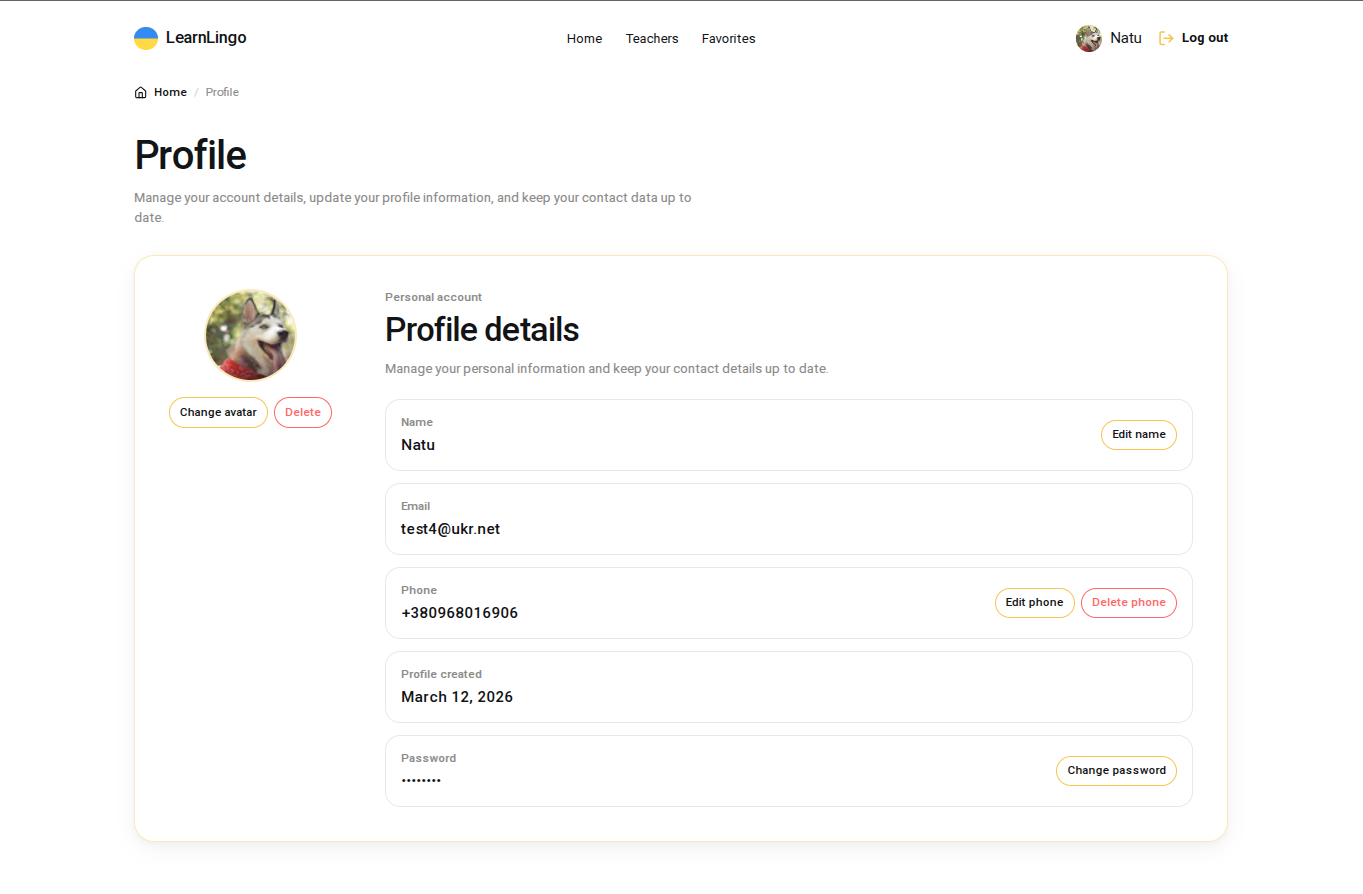
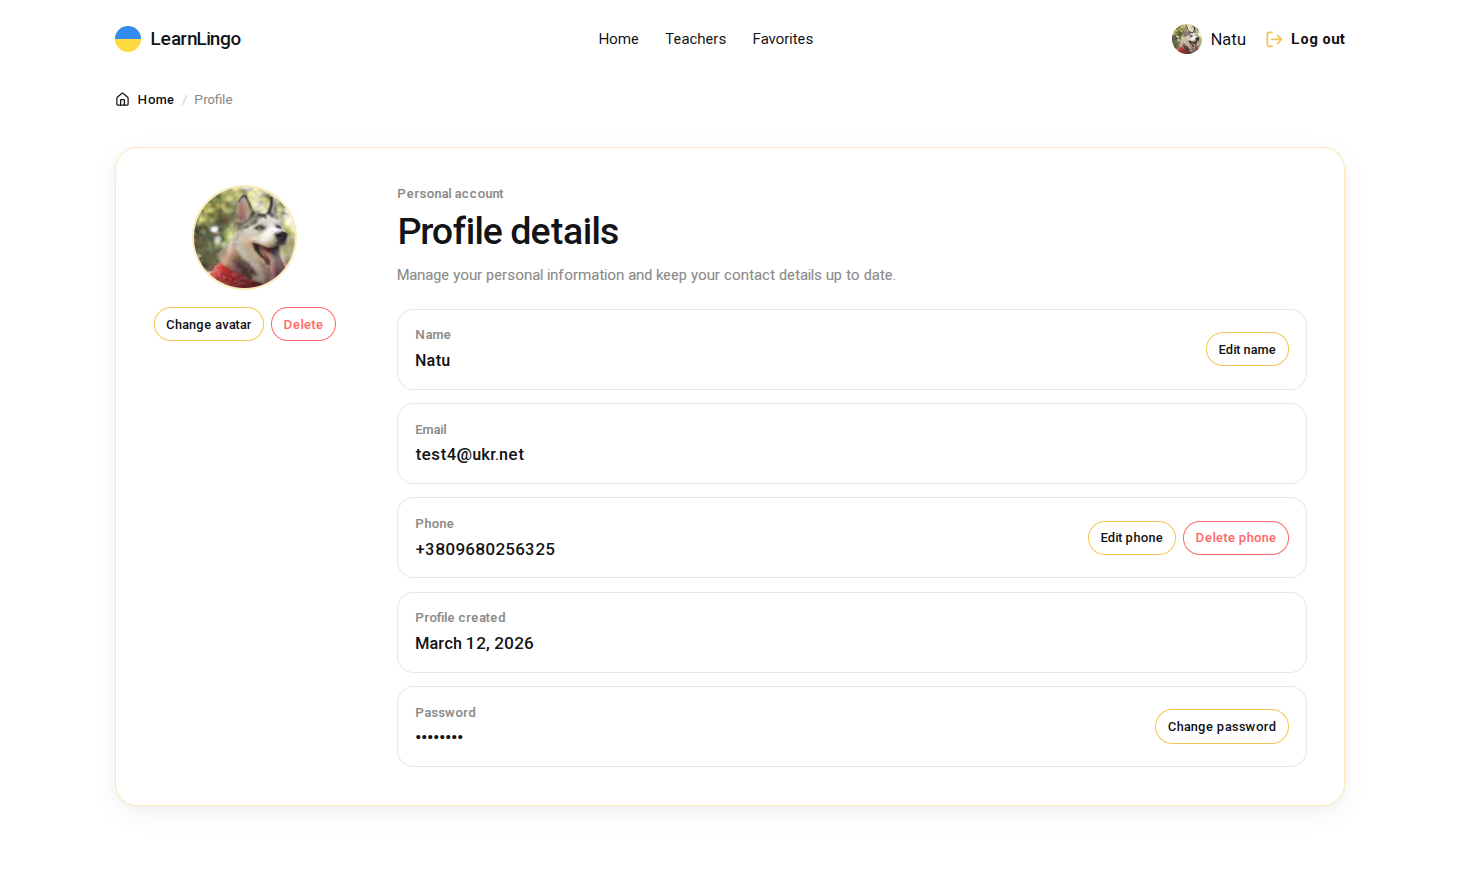
change the appearance of the profile page

diff --git a/app/profile/page.tsx b/app/profile/page.tsx
@@ -76,8 +76,8 @@ async function ProfilePage() {
           />
 
           <div className={css.heading}>
-            <h1 className={css.title}>{PROFILE_TITLE}</h1>
-            <p className={css.text}>
+            <h1 className="visually-hidden">{PROFILE_TITLE}</h1>
+            <p className="visually-hidden">
               Manage your account details, update your profile information, and
               keep your contact data up to date.
             </p>

diff --git a/app/profile/page.module.css b/app/profile/page.module.css
@@ -6,10 +6,6 @@
   width: 100%;
 }
 
-.heading {
-  margin-bottom: 28px;
-}
-
 .title {
   margin-bottom: 12px;
   color: var(--text-main);
@@ -29,10 +25,6 @@
 @media only screen and (min-width: 768px) {
   .page {
     padding-bottom: 64px;
-  }
-
-  .heading {
-    margin-bottom: 32px;
   }
 
   .title {
